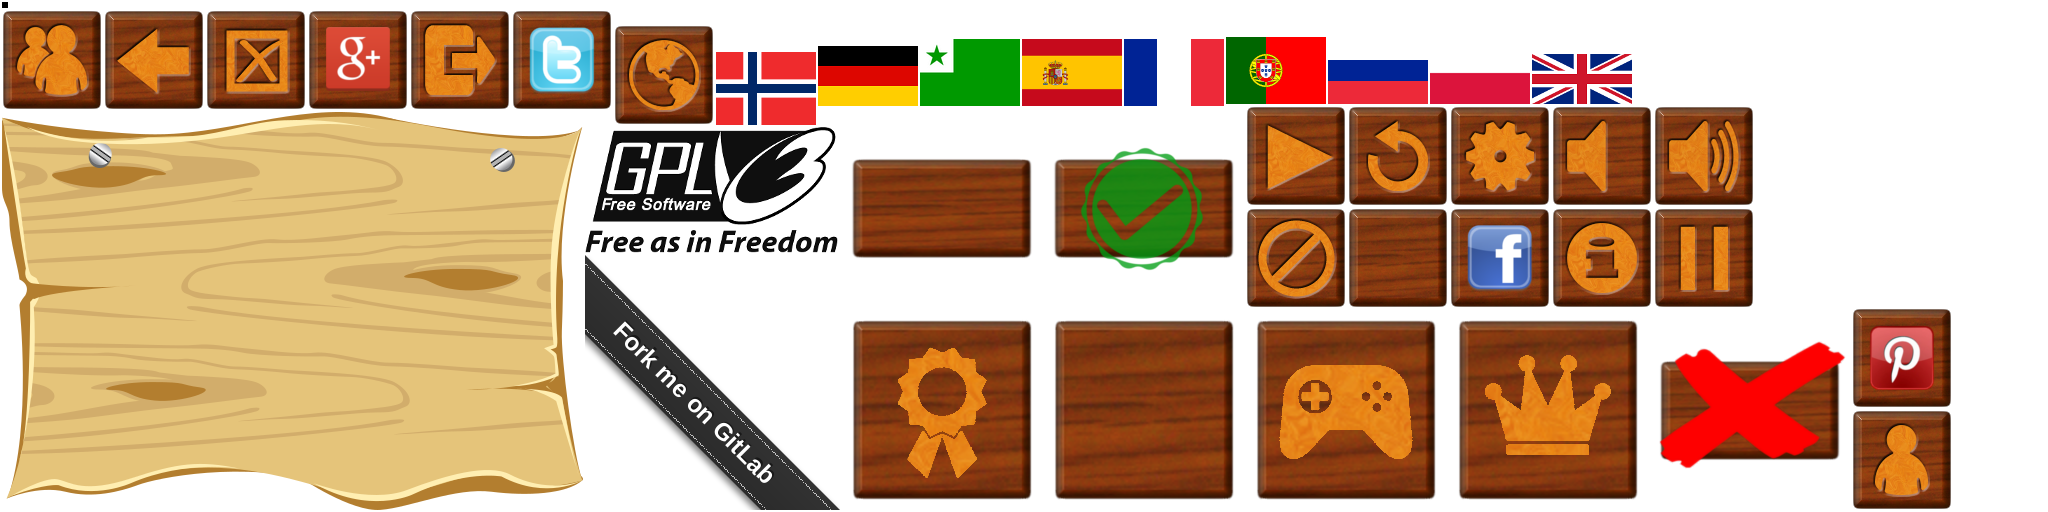
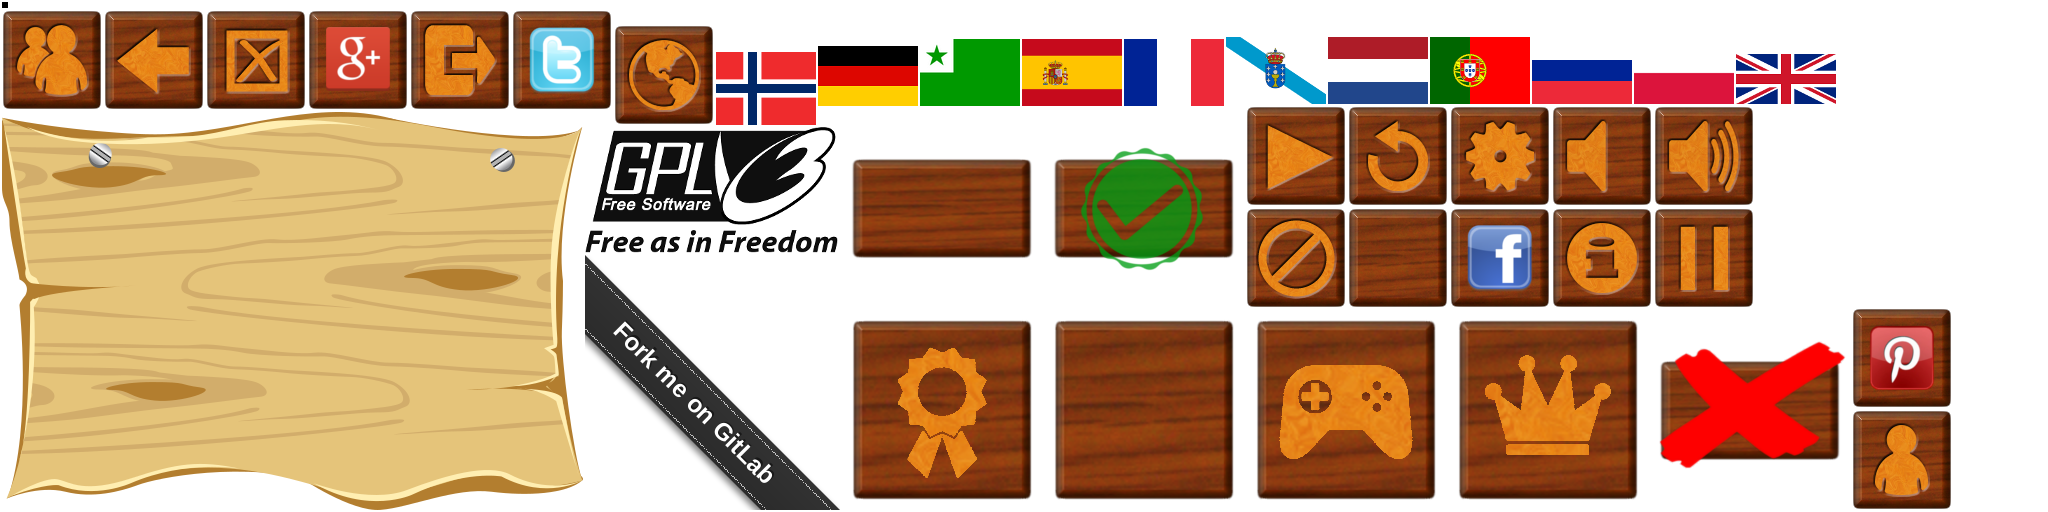
removed the "waiting" in favour for "pleasewait' in all translations. also removed the 3 dots frotm the properies file + matched all scripts and tests

Changed region(s): [[0.5938, 0.0625, 0.9062, 0.2188]]

diff --git a/tests/src-integration/com/gitlab/ardash/appleflinger/testing/integration/DesktopTestdriveTest.java b/tests/src-integration/com/gitlab/ardash/appleflinger/testing/integration/DesktopTestdriveTest.java
@@ -39,12 +39,12 @@ import com.gitlab.ardash.appleflinger.screens.MissionSelectScreen;
 
 public class DesktopTestdriveTest implements ActionResolver{
 	
-//	private static final String [] langs = {"de","en","eo","es","fr","nb","pl","pl"}; // all latin
+	private static final String [] langs = {"de","en","eo","es","fr","gl","nb","nl","pl","pt"}; // all latin
 //	private static final String [] langs = {"es", "fr"};
 //	private static final String [] langs = {"de","en","es","fr"};
 //	private static final String [] langs = {"eo","pl"};
 //	private static final String [] langs = {"pt"};
-	private static final String [] langs = {"nl","gl"};
+//	private static final String [] langs = {"nl","gl"};
 //	private static final String [] langs = {"ru"}; // separate non-latin load
 	
 	private static final Mission [] missions = {Mission.M_1_1, Mission.M_1_3, Mission.M_1_4
@@ -106,8 +106,12 @@ public class DesktopTestdriveTest implements ActionResolver{
 		n2.put("es", "Sofía".toUpperCase());
 		n1.put("fr", "Pierre".toUpperCase());
 		n2.put("fr", "Debonnaire".toUpperCase());
+		n1.put("gl", "Estevo".toUpperCase());
+		n2.put("gl", "Maruxa".toUpperCase());
 		n1.put("nb", "Jørgen".toUpperCase());
 		n2.put("nb", "Ragnhild".toUpperCase());
+		n1.put("nl", "Espen".toUpperCase());
+		n2.put("nl", "Maryse".toUpperCase());
 		n1.put("pl", "Szymon".toUpperCase());
 		n2.put("pl", "Amelia".toUpperCase());
 		n1.put("pt", "Adriano".toUpperCase());

diff --git a/core/src/com/gitlab/ardash/appleflinger/screens/LanguageDialog.java b/core/src/com/gitlab/ardash/appleflinger/screens/LanguageDialog.java
@@ -45,15 +45,17 @@ public class LanguageDialog extends AdvancedDialog{
 		getContentTable().add(makeLingoButton(Assets.SpriteAsset.BTN_REFRESH, "\n\n"+I18N.s("default")));
 		getContentTable().add(makeLingoButton(Assets.SpriteAsset.FLAG_NB, "\n\nbokmål"));
 		getContentTable().add(makeLingoButton(Assets.SpriteAsset.FLAG_DE, "\n\ndeutsch"));
-		getContentTable().row().minHeight(180).top();
 		getContentTable().add(makeLingoButton(Assets.SpriteAsset.FLAG_EN, "\n\nenglish"));
+		getContentTable().row().minHeight(180).top();
 		getContentTable().add(makeLingoButton(Assets.SpriteAsset.FLAG_EO, "\n\nesperanto"));
 		getContentTable().add(makeLingoButton(Assets.SpriteAsset.FLAG_ES, "\n\nespañol"));
 		getContentTable().add(makeLingoButton(Assets.SpriteAsset.FLAG_FR, "\n\nfrançais"));
+		getContentTable().add(makeLingoButton(Assets.SpriteAsset.FLAG_GL, "\n\ngalego"));
 		getContentTable().row().minHeight(180).top();
+		getContentTable().add(makeLingoButton(Assets.SpriteAsset.FLAG_NL, "\n\nnederlands"));
 		getContentTable().add(makeLingoButton(Assets.SpriteAsset.FLAG_PL, "\n\npolski"));
 		getContentTable().add(makeLingoButton(Assets.SpriteAsset.FLAG_PT, "\n\nportuguês"));
-		getContentTable().add(makeLingoButton(Assets.SpriteAsset.FLAG_RU, "\n\nрусский"));
+		getContentTable().add(makeLingoButton(Assets.SpriteAsset.FLAG_RU, "\n\nрусский")); //russkiy
 
         getContentTable().row();
         

diff --git a/tests/src/com/gitlab/ardash/appleflinger/testing/sanity/AssetTest.java b/tests/src/com/gitlab/ardash/appleflinger/testing/sanity/AssetTest.java
@@ -55,7 +55,8 @@ public class AssetTest {
 	@Test
 	public void isI18NWorkingForNL() {
 		I18N.loadLanguageBundle("nl");
-		assertEquals("låst", I18N.s("locked"));
+		assertEquals("Oké", I18N.s("okay"));
+		assertEquals("Nee", I18N.s("no"));
 	}
 	
 	@Test
@@ -82,6 +83,13 @@ public class AssetTest {
 		I18N.loadLanguageBundle("fr");
 		assertEquals("touche l'écran pour continuer", I18N.s("touchScreenToContinue"));
 		assertEquals("JEU TERMINÉ", I18N.s("gameOver"));
+	}
+	
+	@Test
+	public void isI18NWorkingForGL() {
+		I18N.loadLanguageBundle("gl");
+		assertEquals("Só", I18N.s("alone"));
+		assertEquals("Música", I18N.s("Music"));
 	}
 	
 	@Test

diff --git a/core/src/com/gitlab/ardash/appleflinger/actors/ProjectileActor.java b/core/src/com/gitlab/ardash/appleflinger/actors/ProjectileActor.java
@@ -145,7 +145,7 @@ public class ProjectileActor extends CircleActor {
 				// disable touchablity of the game scene
 				gm.getInputMultiplexer().removeProcessor(gm.currentGameScreen.getRenderer().world.stage);
 				gm.getInputMultiplexer().addProcessor(gm.currentGameScreen.getGuiStage());
-				gm.currentGameScreen.setAnnouncementText(I18N.getString("waiting"), true); 
+				gm.currentGameScreen.setAnnouncementText(I18N.getString("pleaseWait")+" ...", true); 
 				gm.onShotFired();
 				SoundPlayer.playSound(Assets.getRandomSound(SoundGroupAsset.WHIZZ), 0.25f);
 				reAddPhysics();

diff --git a/core/src/com/gitlab/ardash/appleflinger/screens/GameScreen.java b/core/src/com/gitlab/ardash/appleflinger/screens/GameScreen.java
@@ -110,7 +110,7 @@ public class GameScreen implements Screen {
         
         // add GUI actors to stage, labels, meters, buttons etc.  
         buildGameGUI();
-        setAnnouncementText(I18N.getString("pleaseWait"));
+        setAnnouncementText(I18N.getString("pleaseWait")+" ...");
     }
 
 	private static Label createMiniLabel(CharSequence text)

diff --git a/core/src/com/gitlab/ardash/appleflinger/global/Assets.java b/core/src/com/gitlab/ardash/appleflinger/global/Assets.java
@@ -280,7 +280,9 @@ public class Assets {
 		FLAG_EO,
 		FLAG_ES,
 		FLAG_FR,
+		FLAG_GL,
 		FLAG_NB,
+		FLAG_NL,
 		FLAG_PL,
 		FLAG_PT,
 		FLAG_RU,
